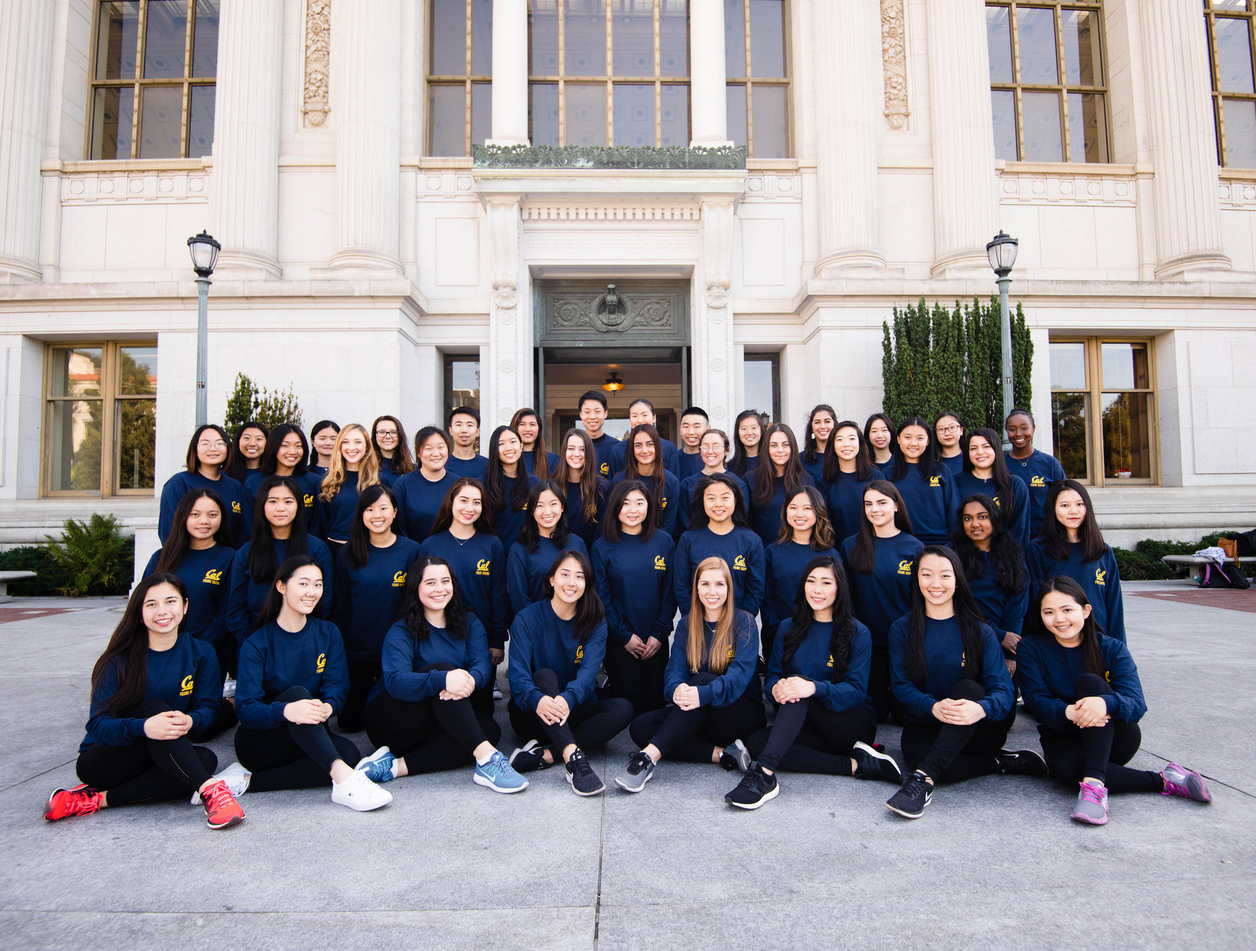
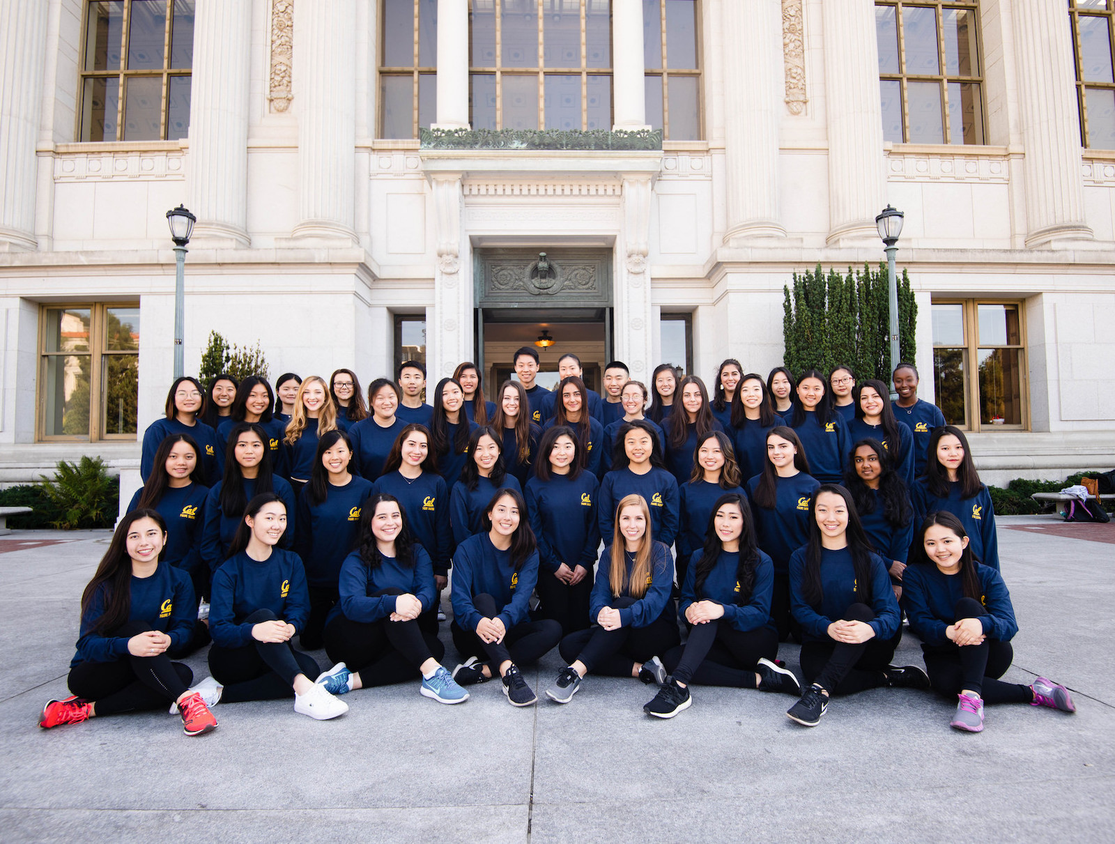
ready to deploy

diff --git a/static/css/join.css b/static/css/join.css
@@ -1,10 +1,12 @@
 
 .card-deck {
-    background-image: url(../images/team-group-photo.jpg);
+    background-image: url(../images/join.jpg);
+    background-position: center;
     padding: 4em auto;
-    margin: 0;
+    margin: 0 auto;
     padding-top: 3em;
     padding-bottom: 3em;
+    min-height: 100vh;
 }
 
 .join-card {
@@ -14,7 +16,7 @@
   text-align: center;
   padding: 1em;
   min-width: 24em;
-  margin: 1em;
+  max-width: 30em;
 }
 
 .card-title {

diff --git a/templates/about.html b/templates/about.html
@@ -4,7 +4,7 @@
 {% load static %}
 <link rel="stylesheet" type="text/css" href="{% static 'css/about.css' %}" />
 <div class="about-page-body">
-  <img src="{% static 'images/IMG_3334.jpg'%}" class="about-img">
+  <img src="{% static 'images/about.jpg'%}" class="about-img">
   <div class="about-text">
     <h1 class="title"> ABOUT US </h1>
     <p>Cal Figure Skating welcomes members from all backgrounds, from those trying skating for the first time

diff --git a/templates/join.html b/templates/join.html
@@ -3,7 +3,7 @@
 {% load static %}
 <link rel="stylesheet" type="text/css" href="{%static 'css/join.css' %}" />
 
-  <div class="card-deck">
+  <div class="card-deck justify-content-center">
     <div class="card join-card rec-card">
       <div class="card-body">
         <h3 class="card-title">REC TEAM</h3>
